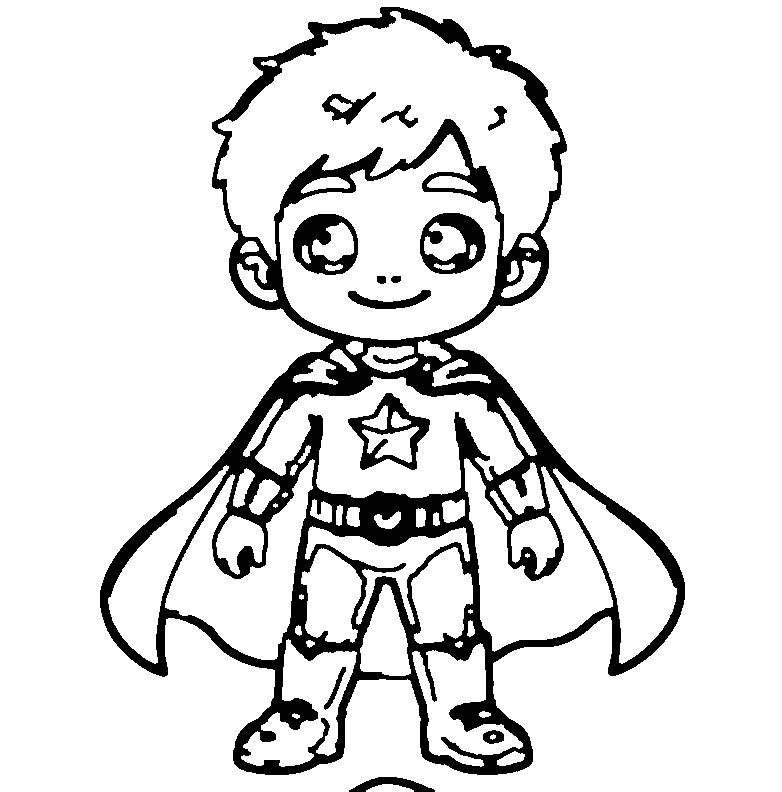
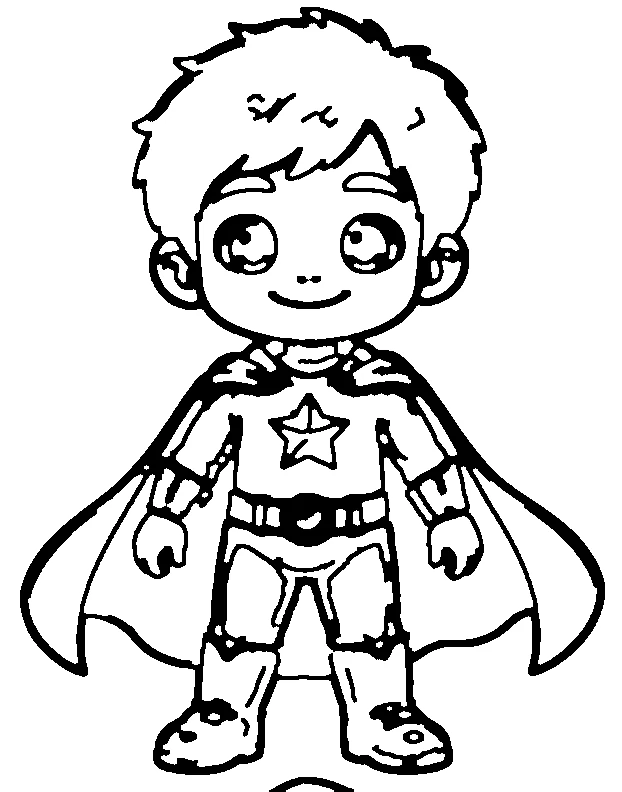
Igualar el tamaño de los looks en la vista previa
Los looks base y superhéroe tenían la figura chica dentro de un lienzo
casi cuadrado, así que al cambiar de tema el personaje se achicaba hasta
un 35%. Se recortan al borde de la figura (como los demás), se
regeneran sus láminas para colorear y la vista previa se ensancha para
que la capa no la limite.

Claude-Session: https://claude.ai/code/session_01MudruhrgVuGXRqrPFXvX28

Changed region(s): [[0.0305, 0.0, 0.9775, 1.0], [0.3971, 0.1212, 0.4887, 0.1515]]

diff --git a/src/routes/index.tsx b/src/routes/index.tsx
@@ -396,9 +396,9 @@ function CreatorApp() {
             </p>
           </div>
 
-          <div className="grid gap-8 md:grid-cols-[minmax(0,320px)_1fr] md:items-start">
+          <div className="grid gap-8 md:grid-cols-[minmax(0,380px)_1fr] md:items-start">
             {/* Vista previa */}
-            <div className="mx-auto w-full max-w-[280px] md:mx-0">
+            <div className="mx-auto w-full max-w-[340px] md:mx-0">
               <div className="flex aspect-[5/8] items-center justify-center rounded-3xl bg-surface p-4 shadow-lift">
                 <img
                   src={imageSrc}
